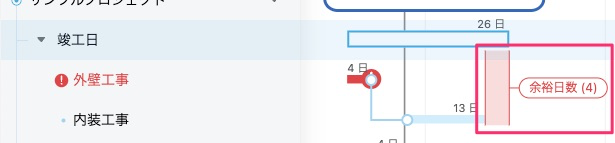
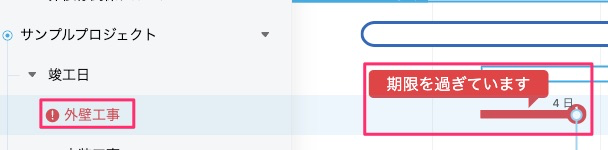
ロードマップ、リソースの画像差し替え

diff --git a/roadmap/progress/index.md b/roadmap/progress/index.md
@@ -19,12 +19,14 @@ has_children: false
 
 ### プロジェクトの進捗管理
 
-各プロジェクトの進捗率を確認することができます。
-<br>進捗率は
-- 各プロジェクトの完了率
-- タスクの完了個数/タスクの総数
+各プロジェクトの進捗状況を確認することができます。
+<br>進捗状況は
+- タスクの完了数/タスクの総数
+- タスクの完了数(%)
+- タスクの完了日数/タスクの総日数
+- タスクの完了日数(%)
 
-の2種類で確認することができます。
+の4種類で確認することができます。
 
   <table><tr><td>
     <img src="/assets/images/roadmap/progress/1.png">
@@ -34,12 +36,20 @@ has_children: false
     <img src="/assets/images/roadmap/progress/2.png">
   </td></tr></table>
 
-進捗率の表示は以下の方法で切り替えることができます。
-1. 画面下の <img src="/assets/images/roadmap/progress/3.png" style="height:40px"> をクリックします。
-2. [タスク完了個数で表示する]または[完了率で表示する]をクリックして、進捗の表示方法を切り替えます。
+  <table><tr><td>
+    <img src="/assets/images/roadmap/progress/3.png">
+  </td></tr></table>
 
   <table><tr><td>
-    <img src="/assets/images/roadmap/progress/4.png" width="80%">
+    <img src="/assets/images/roadmap/progress/4.png">
+  </td></tr></table>
+
+進捗状況の表示は以下の方法で切り替えることができます。
+1. 画面下の <img src="/assets/images/roadmap/progress/5.png" style="height:40px"> をクリックします。
+2. ドロップダウンメニューからいずれかをクリックして、進捗の表示方法を切り替えます。
+
+  <table><tr><td>
+    <img src="/assets/images/roadmap/progress/6.png" width="80%">
   </td></tr></table>
 
 ---
@@ -50,7 +60,7 @@ has_children: false
 <br>また、チャートでタスクをマウスでホバーすると[期限を過ぎています]とメッセージが表示されます。
 
   <table><tr><td>
-    <img src="/assets/images/roadmap/progress/5.png" width="80%">
+    <img src="/assets/images/roadmap/progress/7.png" width="80%">
   </td></tr></table>
 
 
@@ -64,12 +74,12 @@ has_children: false
 
 
   <table><tr><td>
-    <img src="/assets/images/roadmap/progress/6.png" width="80%">
+    <img src="/assets/images/roadmap/progress/8.png" width="80%">
   </td></tr></table>
 
 
   <table><tr><td>
-    <img src="/assets/images/roadmap/progress/7.png" width="80%">
+    <img src="/assets/images/roadmap/progress/9.png" width="80%">
   </td></tr></table>
 
   {: .note }

diff --git a/CHANGELOG.md b/CHANGELOG.md
@@ -7,6 +7,13 @@ layout: default
 
 <!-- All notable user-facing changes to this project are documented in this file. -->
 
+## Release v1.3.1
+
+### 新機能
+- ロードマップ画面の進捗状況の表示形式で日数が選択できるようになりました
+- ロードマップ画面のマイルストーンのバーに余裕日数が表示されるようになりました
+- リソース画面の担当者、リソースのバーに期間の重複、余白が表示されるようになりました
+
 ## Release v1.3.0
 
 ### 新機能
